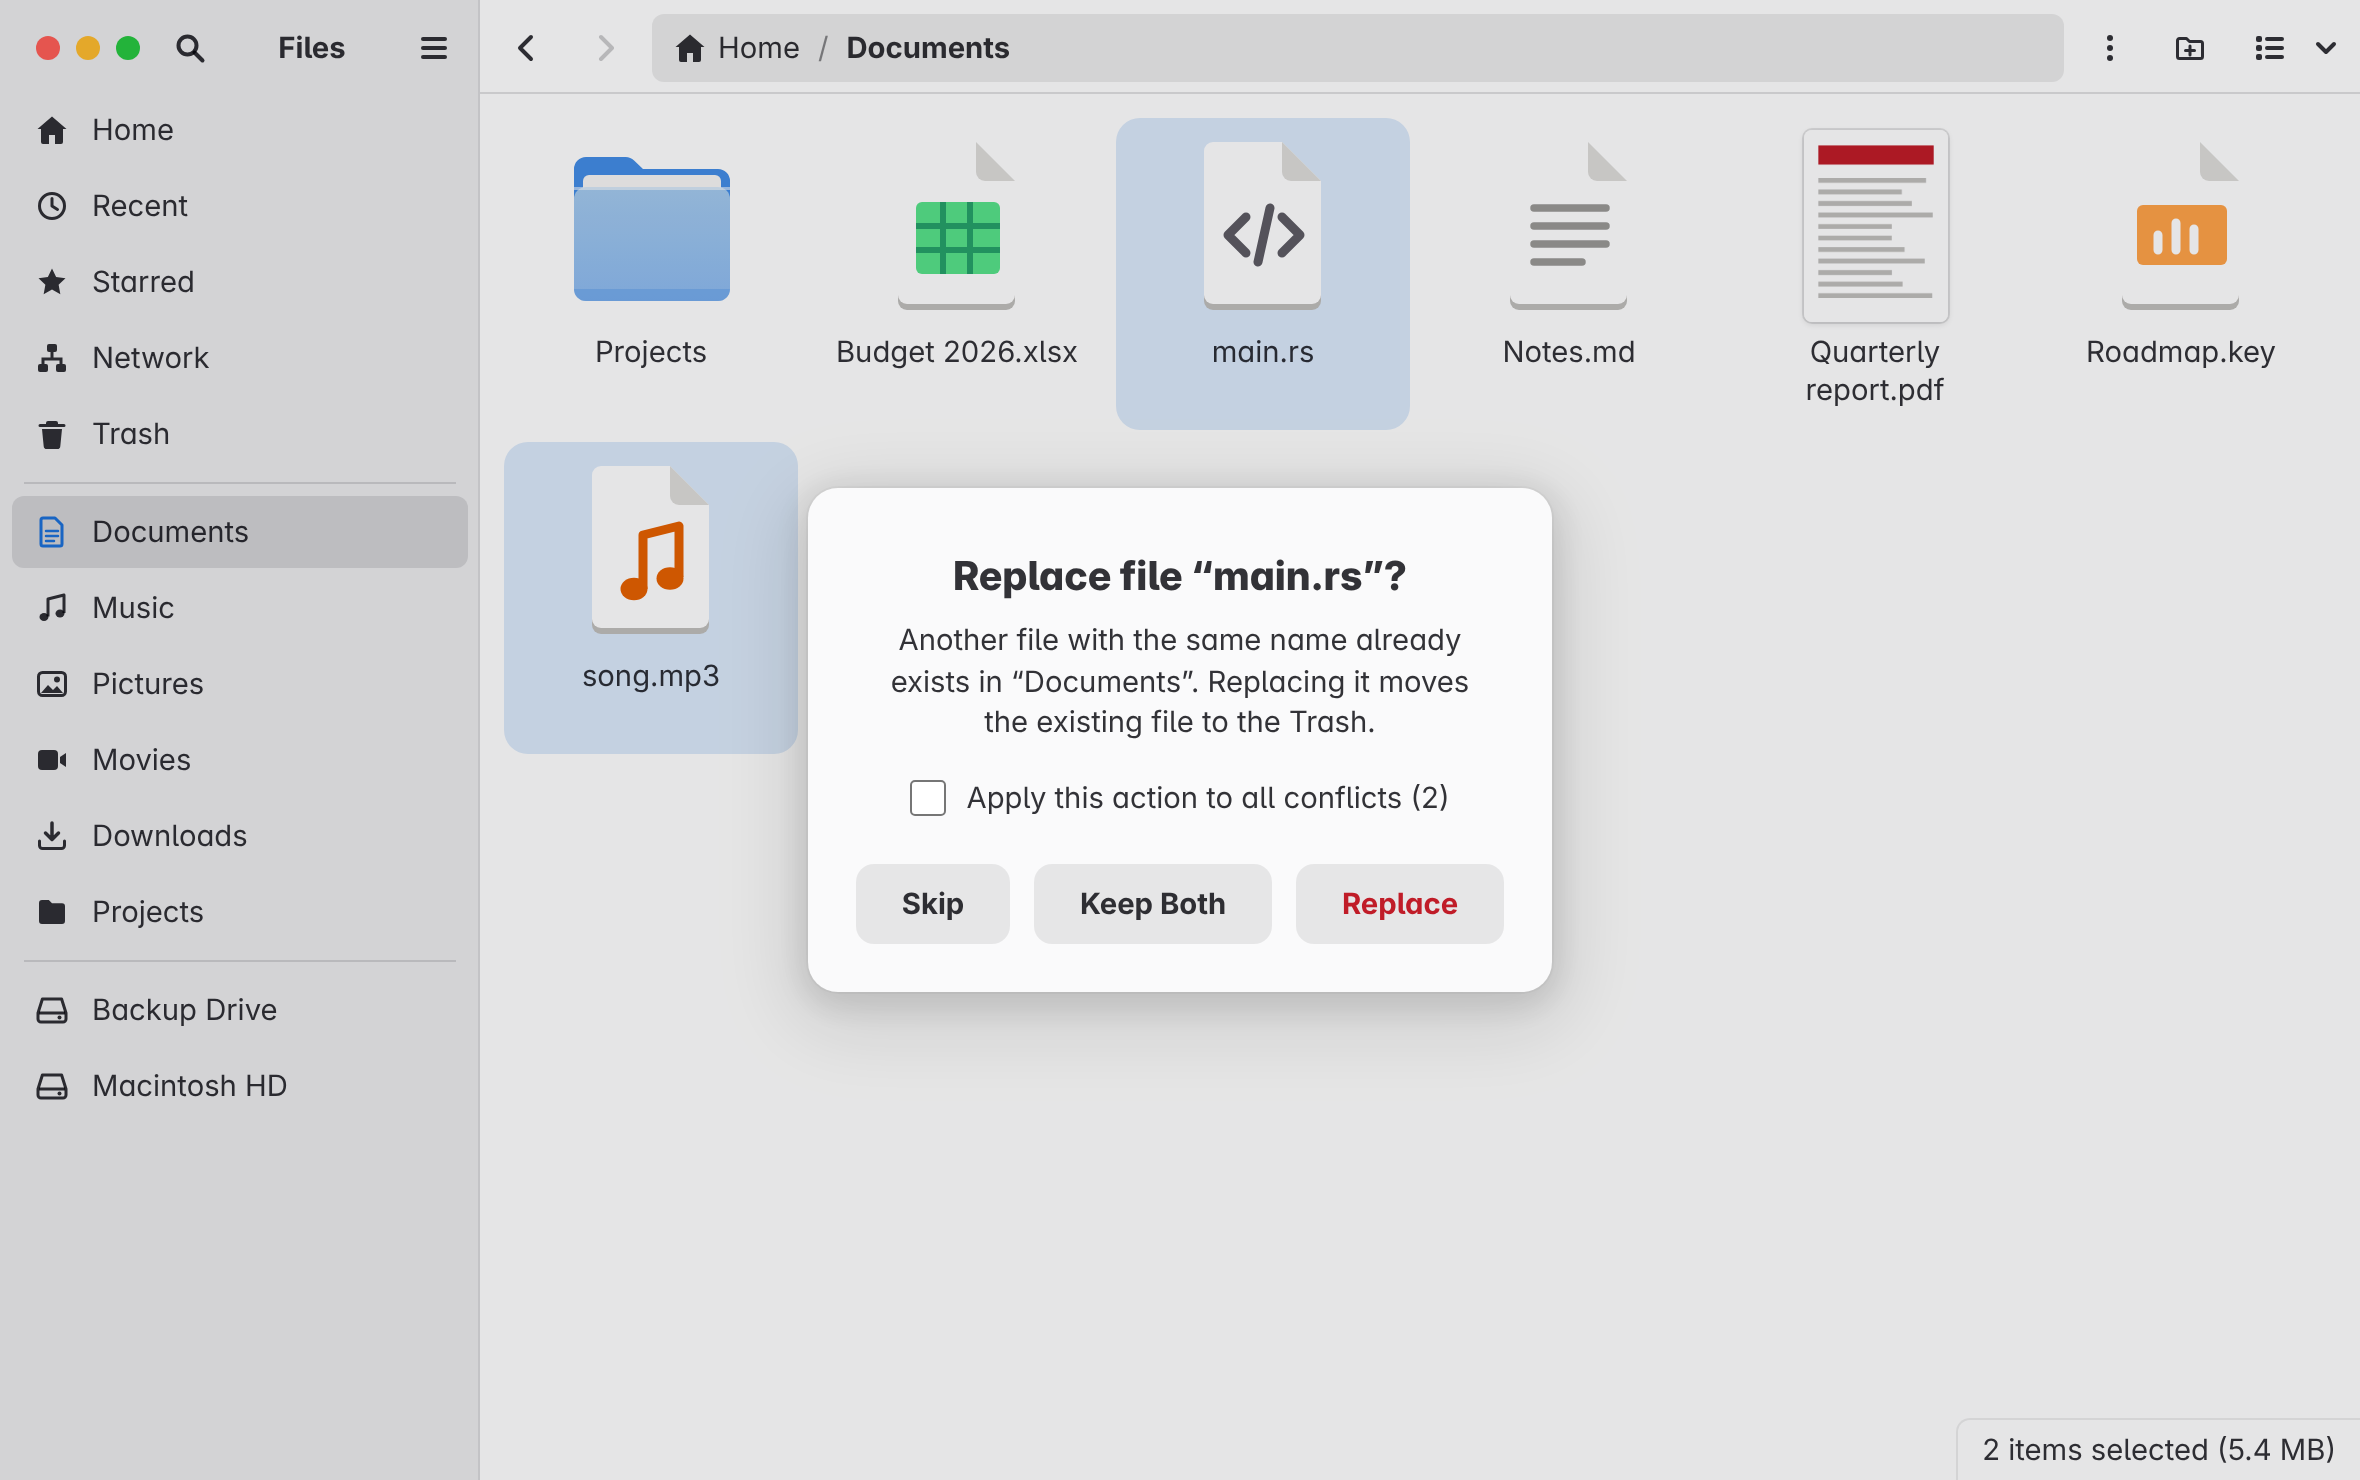
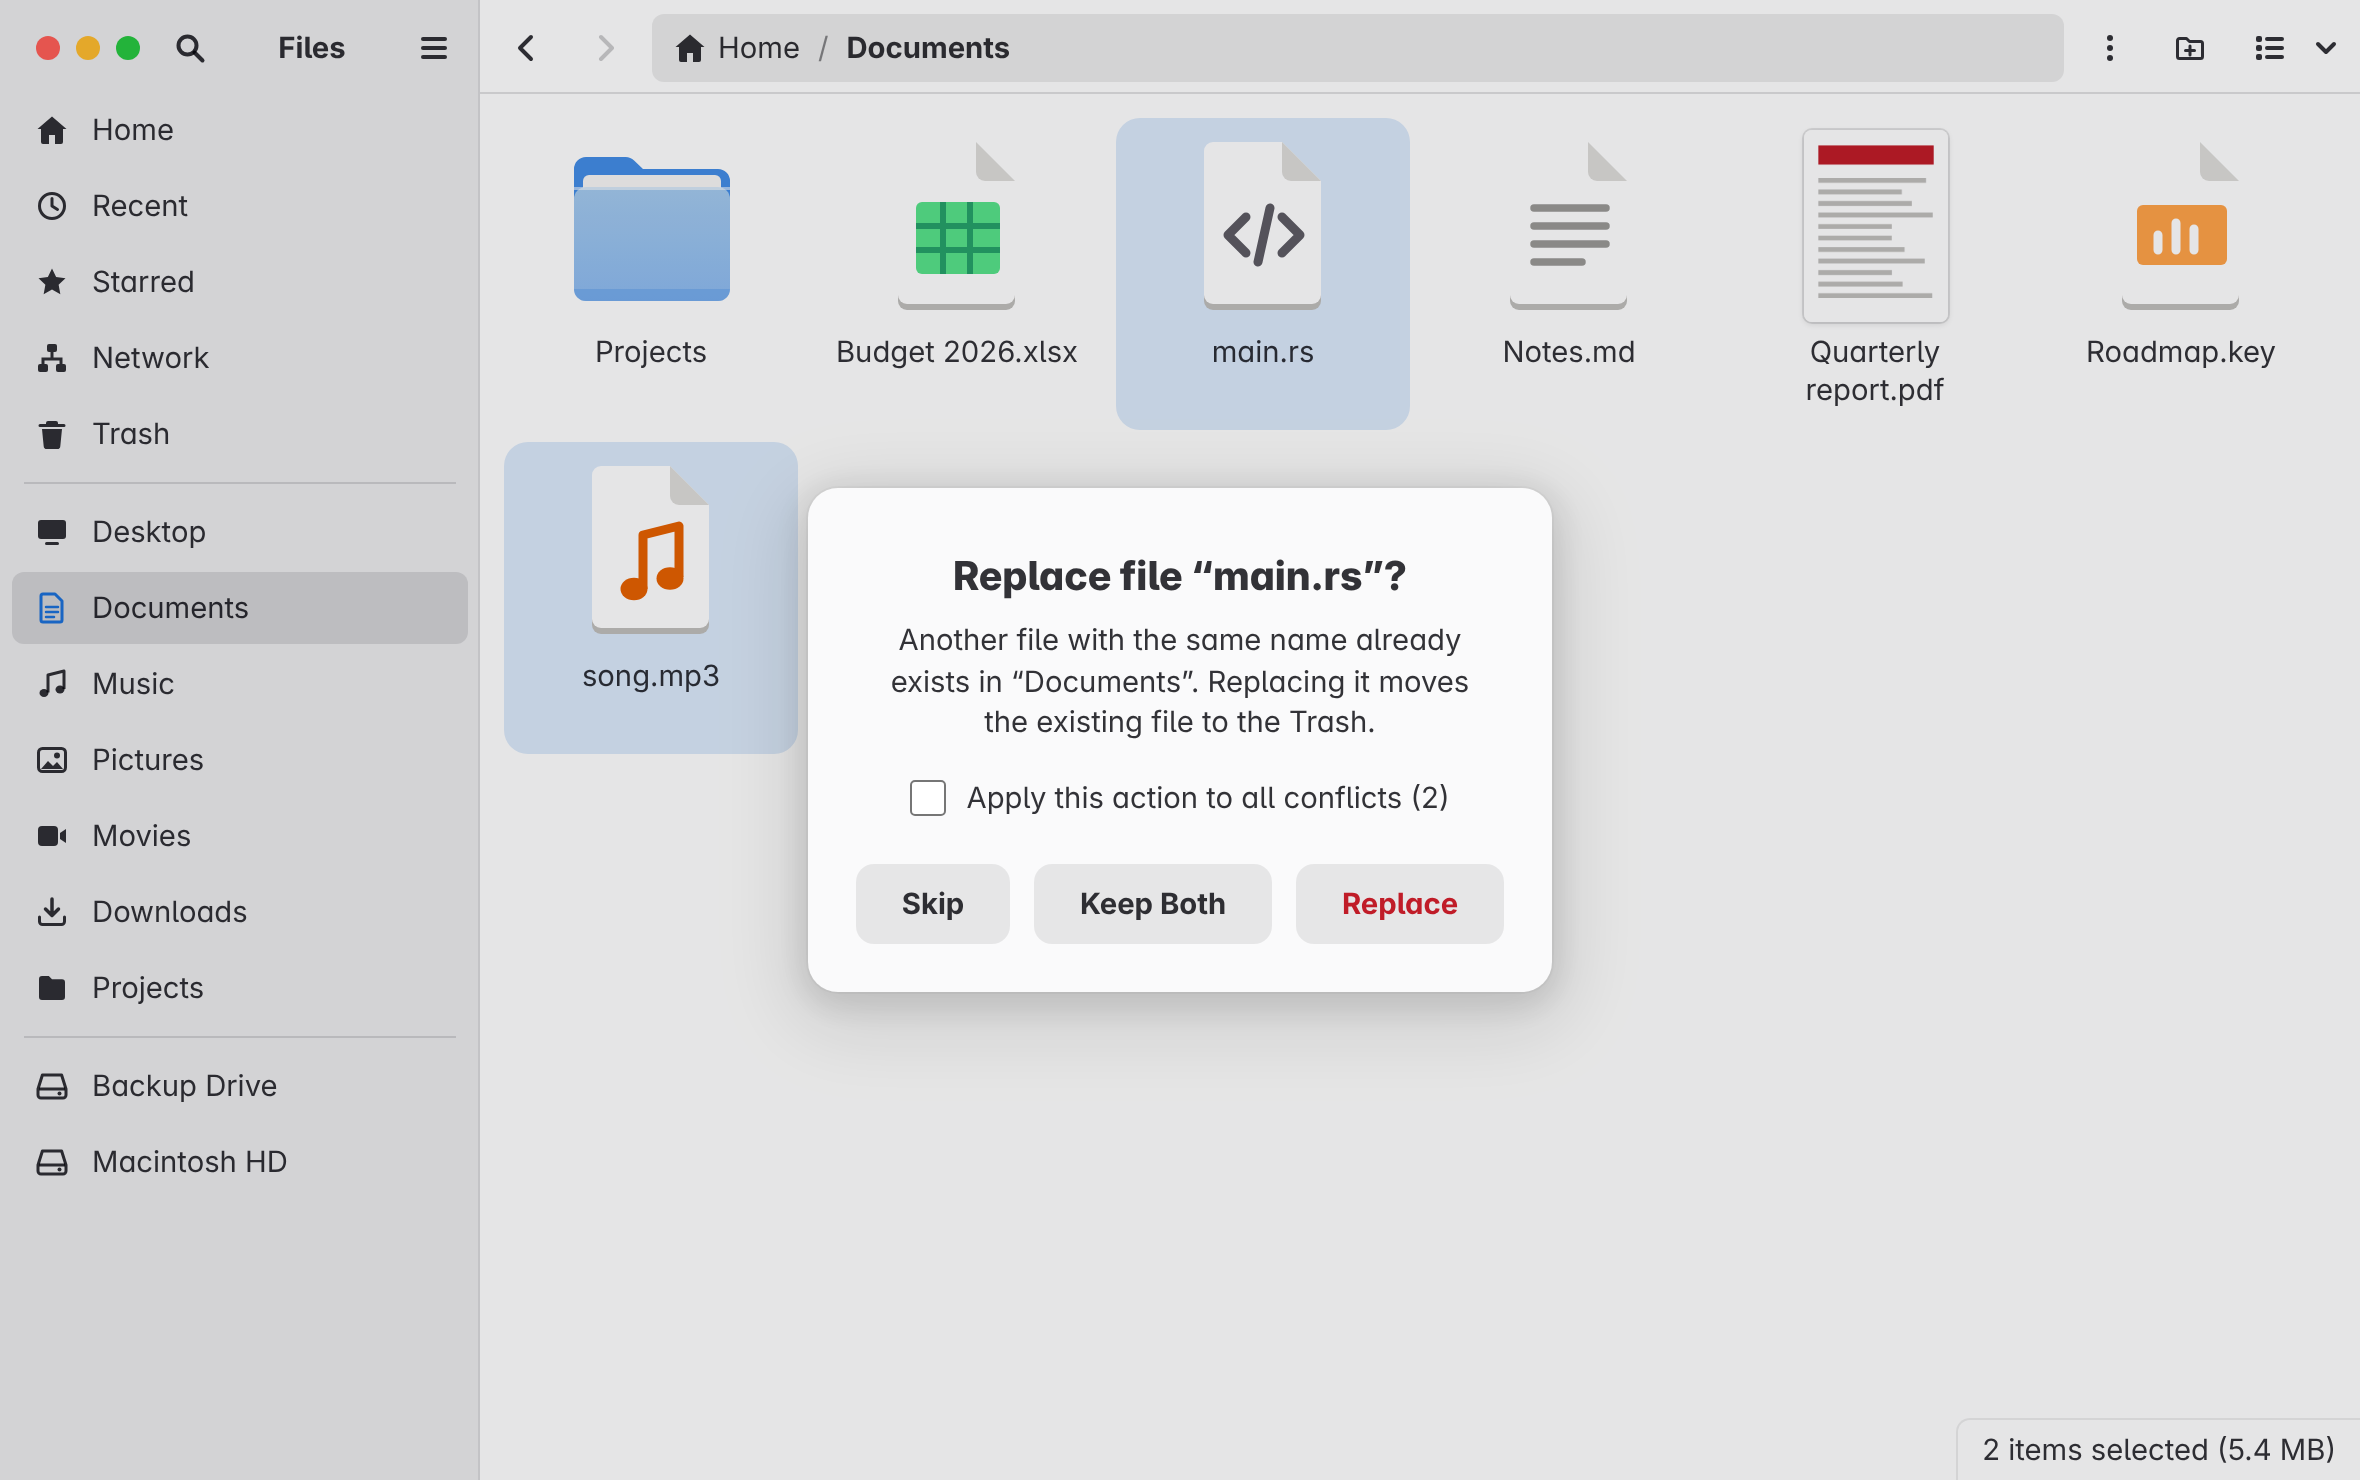
feat: add Desktop to the sidebar
Desktop gets the first slot in the bookmarks section, with the desktop
symbolic icon; README screenshots refreshed to show it.

Claude-Session: https://claude.ai/code/session_01JuD4cHzwTaYyoVEqpxTMnV

diff --git a/src/main.ts b/src/main.ts
@@ -1982,9 +1982,10 @@ async function buildSidebar(): Promise<void> {
   sidebarRow(places, "Network", "network-workgroup", `${PSEUDO_PREFIX}network`);
   if (trashPath) sidebarRow(places, "Trash", "user-trash", trashPath);
 
-  // GNOME's default bookmarks, resolved to this machine's folders
+  // Desktop plus GNOME's default bookmarks, resolved to this machine's folders
   // (on macOS "Videos" is ~/Movies, so labels use the real folder name).
   const xdg: [FolderKind, () => Promise<string>, string][] = [
+    ["desktop", desktopDir, "user-desktop"],
     ["documents", documentDir, "folder-documents"],
     ["music", audioDir, "folder-music"],
     ["pictures", pictureDir, "folder-pictures"],
@@ -1998,8 +1999,6 @@ async function buildSidebar(): Promise<void> {
     folderKinds.set(path, kind);
     sidebarRow(bookmarks, basename(path), icon, path);
   }
-  const desktop = await tryDir(desktopDir);
-  if (desktop) folderKinds.set(desktop, "desktop");
   const pub = await tryDir(publicDir);
   if (pub) folderKinds.set(pub, "publicshare");
 
